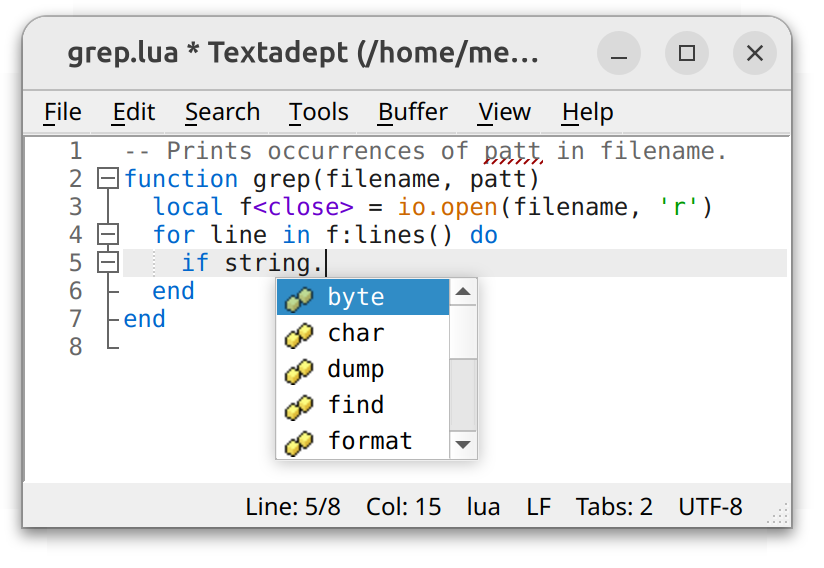
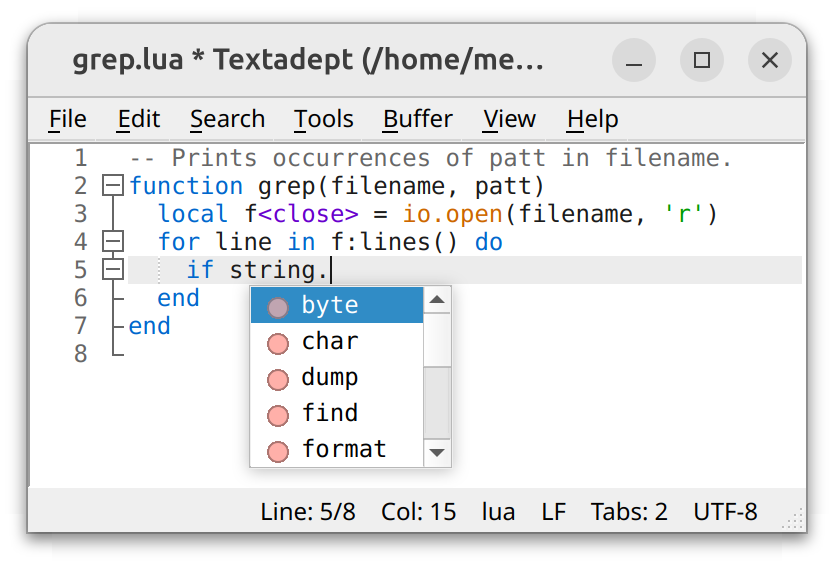
Support HiDPI autocompletion list images.
Added `is_hidpi()` function.

Changed region(s): [[0.0, 0.0, 1.0, 0.9611], [0.7282, 0.0901, 0.7585, 0.1201]]

diff --git a/src/textadept.c b/src/textadept.c
@@ -812,6 +812,9 @@ static int add_timeout_lua(lua_State *L) {
 	return (add_timeout(interval, call_timeout_function, refs), 0);
 }
 
+// `_G.is_hidpi()` Lua function.
+static int lua_ishidpi(lua_State *L) { return (lua_pushboolean(L, is_hidpi()), 1); }
+
 // Initializes or re-initializes the Lua state and with the given command-line arguments.
 // Populates the state with global variables and functions, runs the 'core/init.lua' script,
 // and returns `true` on success.
@@ -903,6 +906,7 @@ static bool init_lua(int argc, char **argv) {
 	lua_pushcfunction(L, quit_lua), lua_setglobal(L, "quit");
 	lua_pushcfunction(L, reset), lua_setglobal(L, "reset");
 	lua_pushcfunction(L, add_timeout_lua), lua_setglobal(L, "timeout");
+	lua_pushcfunction(L, lua_ishidpi), lua_setglobal(L, "is_hidpi");
 
 	if (lua = L, !run_file("core/init.lua"))
 		return (lua_close(L), lua = NULL, exit_status = 1, false);

diff --git a/src/textadept_gtk.c b/src/textadept_gtk.c
@@ -531,6 +531,14 @@ void update_ui(void) {
 	while (gtk_events_pending()) gtk_main_iteration();
 }
 
+bool is_hidpi(void) {
+#if GTK_CHECK_VERSION(3, 10, 0)
+	return gtk_widget_get_scale_factor(window) > 1;
+#else
+	return false;
+#endif
+}
+
 bool is_dark_mode(void) {
 #if GTK_CHECK_VERSION(3, 0, 0)
 	GtkStyleContext *context = gtk_style_context_new();

diff --git a/src/textadept_qt.cpp b/src/textadept_qt.cpp
@@ -356,6 +356,8 @@ void add_timeout(double interval, bool (*f)(int *), int *refs) { new Timeout{int
 
 void update_ui() { QApplication::sendPostedEvents(), QApplication::processEvents(); }
 
+bool is_hidpi() { return ta->devicePixelRatio() > 1; }
+
 bool is_dark_mode() {
 	QPalette palette;
 	return palette.color(QPalette::WindowText).lightness() >

diff --git a/src/textadept_platform.h b/src/textadept_platform.h
@@ -255,6 +255,9 @@ void add_timeout(double interval, bool (*f)(int *), int *reference);
  */
 void update_ui(void);
 
+/** Returns whether or not Textadept is currently running on a HiDPI/Retina display. */
+bool is_hidpi(void);
+
 /** Returns whether or not dark mode is currently enabled on the platform. */
 bool is_dark_mode(void);
 

diff --git a/src/textadept_curses.c b/src/textadept_curses.c
@@ -537,6 +537,8 @@ void update_ui(void) {
 	if (lua_processtimeouts(lua)) refresh_all();
 }
 
+bool is_hidpi(void) { return false; }
+
 bool is_dark_mode(void) { return true; } // TODO:
 
 // Contains information about a generic dialog shell.

diff --git a/docs/api.md b/docs/api.md
@@ -207,6 +207,11 @@ assert_type(option.setting, 'number', 'setting') -- assert 'setting' field is a 
 
 The current [buffer](#the-buffer-module) in the [current view](#_G.view).
 
+<a id="is_hidpi"></a>
+### `is_hidpi`()
+
+Returns whether or not Textadept is currently running on a HiDPI/Retina display.
+
 <a id="_G.keys"></a>
 ### `keys`
 
